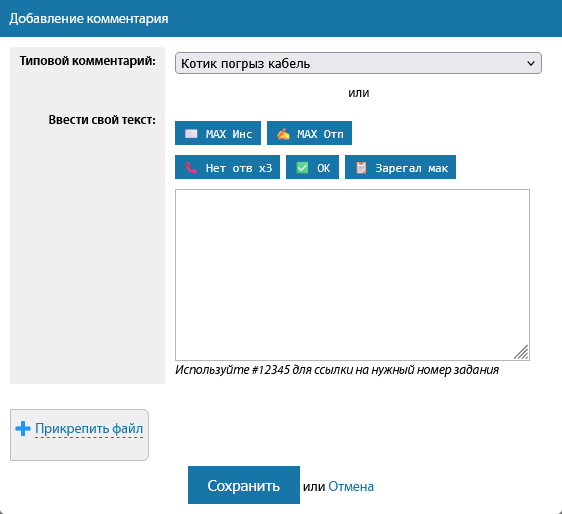
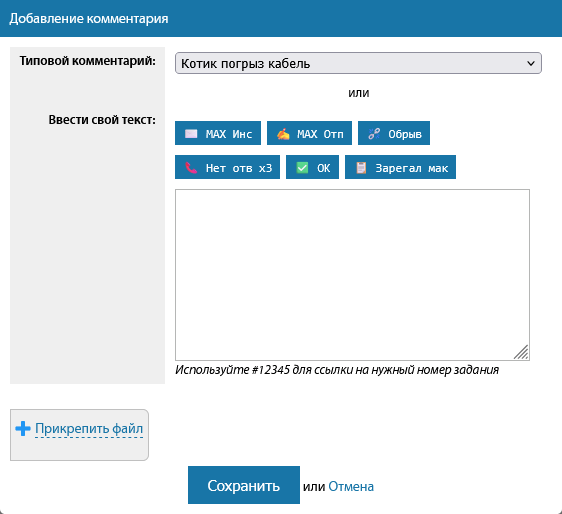
update readme.md screenshots

Changed region(s): [[0.6352, 0.2179, 0.7865, 0.2802]]

diff --git a/README.md b/README.md
@@ -5,7 +5,7 @@ Userside web interface firefox improver
 <img src="img/Screenshot_1.png" alt="screenshot" width="562" />
 <img src="img/Screenshot_2.png" alt="screenshot" width="1239" />
 <img src="img/Screenshot_3.png" alt="screenshot" width="643" />
-<img src="img/Screenshot_4.png" alt="screenshot" width="926" />
+<img src="img/Screenshot_4.png" alt="screenshot" width="840" />
 <img src="img/Screenshot_5.png" alt="screenshot" width="862" />
 
 # Roadmap